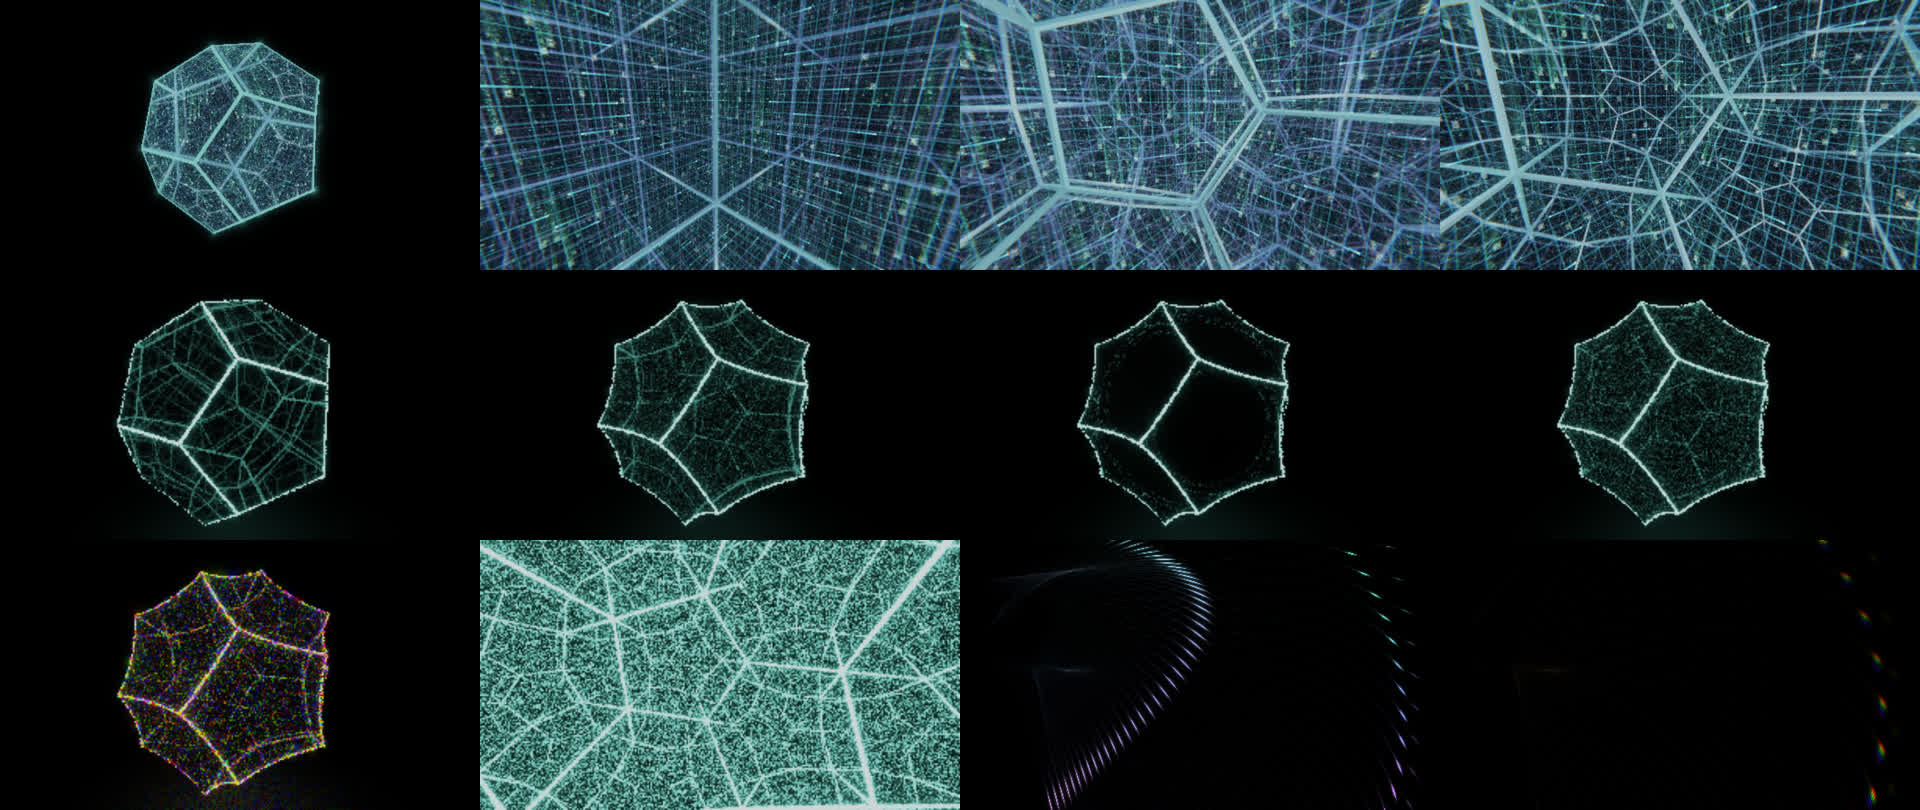
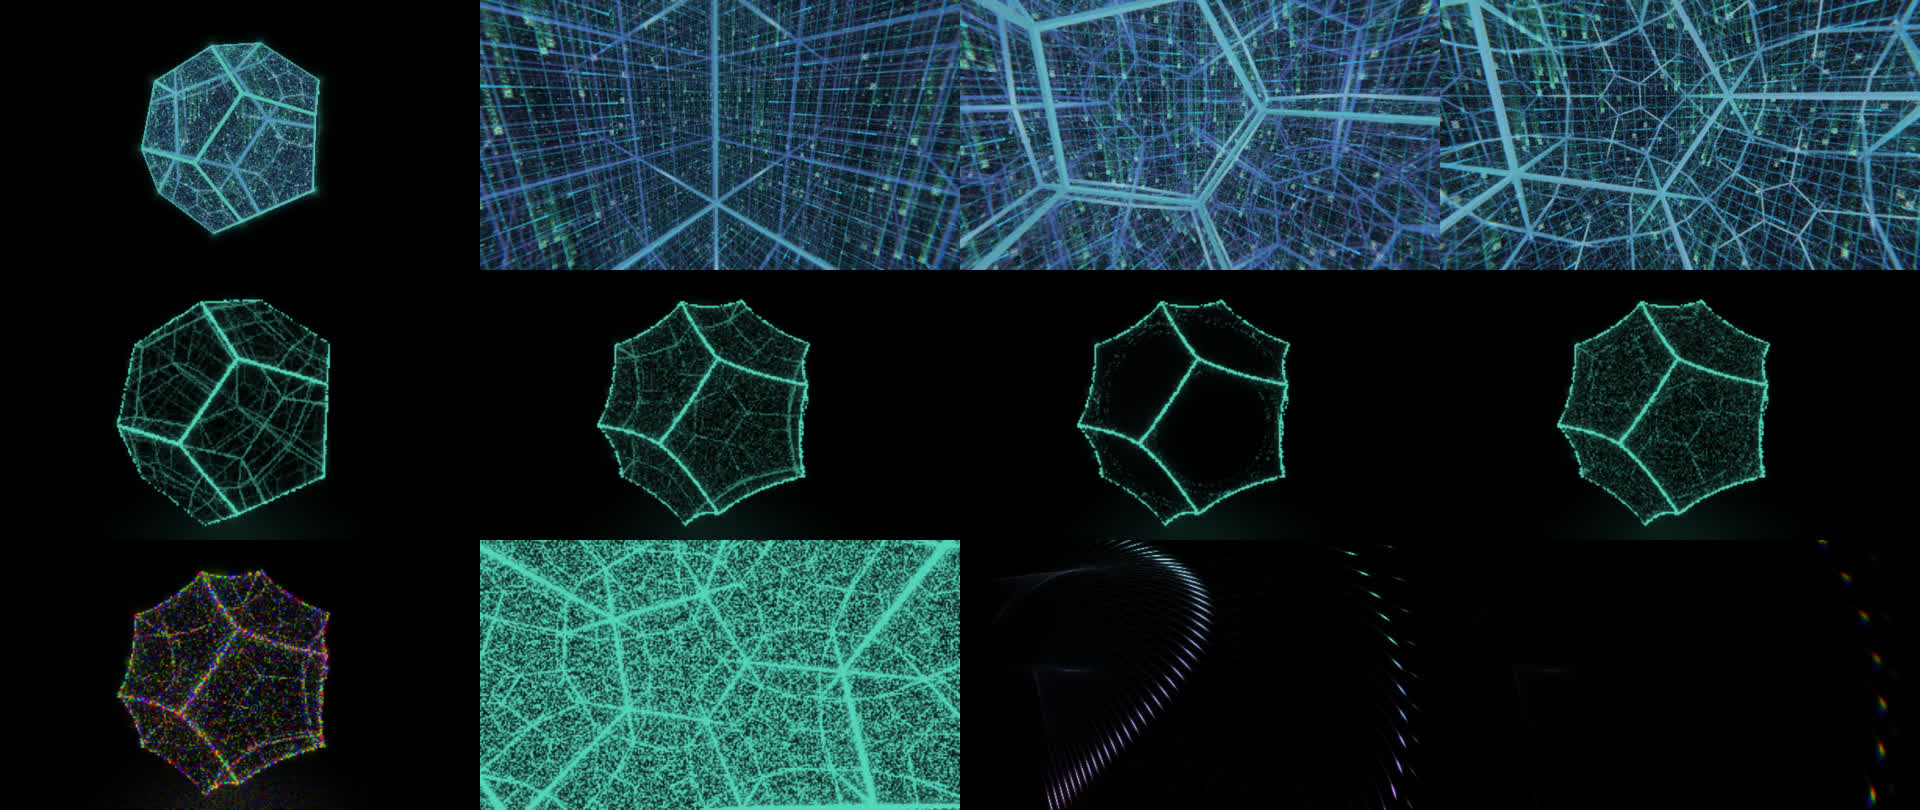
Expand Matrix walkers, preserve HDR hue and validate optical geometry

diff --git a/tests/infinity_tests.cpp b/tests/infinity_tests.cpp
@@ -1,5 +1,7 @@
 #include "Sync.hpp"
 #include "Parallax.hpp"
+#include "OpticalMath.hpp"
+#include "MatrixLife.hpp"
 #include "RenderCorrections.hpp"
 #include "Optimize.hpp"
 #include "Shaders.hpp"
@@ -33,6 +35,24 @@ int main() {
   const float oneStep = infinity_parallax::smooth(0, 1, .1);
   const float twoSteps = infinity_parallax::smooth(infinity_parallax::smooth(0, 1, .05), 1, .05);
   require(std::abs(oneStep - twoSteps) < 1e-6, "pointer smoothing depends on frame rate");
+  for (int step = 0; step < 80; ++step) {
+    const auto cam = infinity_math::camera(float(step) * .31f, float(step - 40) * .03f);
+    for (int a = 0; a < 3; ++a)
+      for (int b = 0; b < 3; ++b) {
+        float dot = 0;
+        for (int k = 0; k < 3; ++k) dot += cam.m[a * 3 + k] * cam.m[b * 3 + k];
+        require(std::abs(dot - (a == b ? 1.f : 0.f)) < 1e-5, "camera basis loses orthogonality");
+      }
+    for (int sheet = 0; sheet < 3; ++sheet) {
+      const auto turn = infinity_math::turn(double(step) * 1e8, sheet);
+      require(std::abs(turn[0] * turn[0] + turn[1] * turn[1] - 1) < 1e-6 &&
+                  std::abs(turn[2] * turn[2] + turn[3] * turn[3] - 1) < 1e-6,
+              "plane bend changes radius");
+    }
+  }
+  for (const char* chamber : {infinity_shader::CHAMBER_OBJECT, infinity_shader::CHAMBER_CUBE,
+                              infinity_shader::CHAMBER_FLAT, infinity_shader::CHAMBER_HYPER})
+    require(infinity_matrix::expand(chamber).find("float ants=") != std::string::npos, "matrix walkers missing");
   using namespace infinity_sync;
   require(sample(31.999, 0, false, 0, 0, 0).scene == 0, "scene changes before boundary");
   require(sample(32, 0, false, 0, 0, 0).scene == 1, "bar-boundary cut missing");
@@ -86,6 +106,55 @@ int main() {
       if (std::abs(d - 1 / std::sqrt(5.f)) < 1e-6)
         require(std::abs(d - kleinT * kleinT) < 1e-6, "hyperbolic adjacent mirrors not orthogonal");
     }
+  for (int f = 0; f < 12; ++f) {
+    const auto n = infinity_math::hyperplane(faces[3 * f], faces[3 * f + 1], faces[3 * f + 2], kleinT);
+    auto dot = [](const auto& a, const auto& b) { return a[0] * b[0] + a[1] * b[1] + a[2] * b[2] - a[3] * b[3]; };
+    require(std::abs(dot(n, n) - 1) < 1e-5, "Lorentz mirror normal is not spacelike unit");
+    std::array<float, 4> p = {0, 0, 0, 1}, reflected = p;
+    const float d = dot(p, n);
+    for (int k = 0; k < 4; ++k) reflected[k] -= 2 * d * n[k];
+    require(std::abs(dot(reflected, reflected) + 1) < 1e-5, "hyperbolic bend leaves unit hyperboloid");
+    const float back = dot(reflected, n);
+    for (int k = 0; k < 4; ++k) reflected[k] -= 2 * back * n[k];
+    for (int k = 0; k < 4; ++k) require(std::abs(reflected[k] - p[k]) < 1e-5, "mirror bend is not involutive");
+  }
+  int degrees[20] = {};
+  bool edgesSeen[20][20] = {};
+  auto vertexIndex = [&](const float* point) {
+    for (int v = 0; v < 20; ++v) {
+      float d = 0;
+      for (int k = 0; k < 3; ++k) d += std::abs(point[k] - vertices[3 * v + k]);
+      if (d < 1e-5) return v;
+    }
+    return -1;
+  };
+  float firstLength = 0;
+  for (int e = 0; e < 30; ++e) {
+    int a = vertexIndex(edgeA + 3 * e), b = vertexIndex(edgeB + 3 * e);
+    require(a >= 0 && b >= 0 && a != b, "edge endpoint is not a vertex");
+    require(!edgesSeen[a][b], "duplicate geometry edge");
+    edgesSeen[a][b] = edgesSeen[b][a] = true;
+    ++degrees[a];
+    ++degrees[b];
+    float d = 0;
+    for (int k = 0; k < 3; ++k) {
+      float x = edgeA[3 * e + k] - edgeB[3 * e + k];
+      d += x * x;
+    }
+    if (e == 0) firstLength = d;
+    require(std::abs(d - firstLength) < 1e-5, "dodecahedron edges have unequal lengths");
+  }
+  for (int degree : degrees) require(degree == 3, "dodecahedron vertex valence must be three");
+  for (int f = 0; f < 12; ++f) {
+    int count = 0;
+    for (int v = 0; v < 20; ++v) {
+      float d = 0;
+      for (int k = 0; k < 3; ++k) d += faces[3 * f + k] * vertices[3 * v + k];
+      require(d <= 1.00001f, "vertex escapes convex face plane");
+      if (std::abs(d - 1) < 1e-5) ++count;
+    }
+    require(count == 5, "face must contain five coplanar vertices");
+  }
   using namespace infinity_opt;
   for (int mask = 0; mask < 128; ++mask) {
     auto kernel = specialize(infinity_shader::TRACE_FS, mask);

diff --git a/demos/infinity/main.cpp b/demos/infinity/main.cpp
@@ -8,6 +8,8 @@
 #include "DimensionalRays.hpp"
 #include "RenderCorrections.hpp"
 #include "Parallax.hpp"
+#include "OpticalMath.hpp"
+#include "MatrixLife.hpp"
 #include "GpuTimer.hpp"
 #include <unordered_map>
 #include <algorithm>
@@ -72,6 +74,7 @@ struct Target {
     glTexParameteri(GL_TEXTURE_2D, GL_TEXTURE_MIN_FILTER,
                     mips ? GL_LINEAR_MIPMAP_LINEAR : (format == GL_RGBA16F ? GL_LINEAR : GL_NEAREST));
     glTexParameteri(GL_TEXTURE_2D, GL_TEXTURE_MAG_FILTER, (mips || format == GL_RGBA16F) ? GL_LINEAR : GL_NEAREST);
+    glTexParameteri(GL_TEXTURE_2D, GL_TEXTURE_MAX_LEVEL, level - 1);
     glTexParameteri(GL_TEXTURE_2D, GL_TEXTURE_WRAP_S, GL_CLAMP_TO_EDGE);
     glTexParameteri(GL_TEXTURE_2D, GL_TEXTURE_WRAP_T, GL_CLAMP_TO_EDGE);
     glGenFramebuffers(1, &fbo);
@@ -96,14 +99,8 @@ struct Target {
     glGenerateMipmap(GL_TEXTURE_2D);
   }
 };
-struct Camera {
-  float m[9];
-  float back[3];
-};
-Camera camera(float yaw, float pitch) {
-  float cy = std::cos(yaw), sy = std::sin(yaw), cp = std::cos(pitch), sp = std::sin(pitch);
-  return {{cy, 0, -sy, -sy * sp, cp, -cy * sp, sy * cp, sp, cy * cp}, {sy * cp, sp, cy * cp}};
-}
+using infinity_math::Camera;
+using infinity_math::camera;
 class Infinity final : public de::Demo {
   std::array<GLuint, 4> chamber_{};
   std::array<GLuint, 128> specialized_{};
@@ -153,7 +150,7 @@ class Infinity final : public de::Demo {
   static void quad() { glDrawArrays(GL_TRIANGLES, 0, 3); }
   GLuint program(const char* vs, const char* fs) {
     const auto vertex = infinity_render::orderedRamps(vs);
-    const auto fragment = infinity_render::orderedRamps(fs);
+    const auto fragment = infinity_render::orderedRamps(infinity_matrix::expand(fs));
     return glutil::linkProgram(vertex.c_str(), fragment.c_str(), error_);
   }
   void view(GLuint p, const Camera& c, float distance, float fov, int w, int h) {
@@ -169,10 +166,9 @@ class Infinity final : public de::Demo {
       glUniform3fv(loc(p, "uU"), 12, cube);
     }
     float hn[48];
-    const float s = 1 / std::sqrt(1 - kleinT * kleinT);
     for (int i = 0; i < 12; ++i) {
-      for (int j = 0; j < 3; ++j) hn[i * 4 + j] = faces[i * 3 + j] * s;
-      hn[i * 4 + 3] = kleinT * s;
+      const auto plane = infinity_math::hyperplane(faces[3 * i], faces[3 * i + 1], faces[3 * i + 2], kleinT);
+      std::copy(plane.begin(), plane.end(), hn + 4 * i);
     }
     glUniform4fv(loc(p, "uHN"), 12, hn);
     glUniform3fv(loc(p, "uEA"), 30, edgeA);
@@ -312,11 +308,8 @@ class Infinity final : public de::Demo {
     glUniformMatrix3fv(loc(rays_, "uCam"), 1, GL_FALSE, rayCamera.m);
     float turns[12];
     for (int sheet = 0; sheet < 3; ++sheet) {
-      const float a = float(cue_.flow) * .11f + float(sheet) * .34f, b = float(cue_.flow) * .07f + .25f;
-      turns[4 * sheet] = std::cos(a);
-      turns[4 * sheet + 1] = std::sin(a);
-      turns[4 * sheet + 2] = std::cos(b);
-      turns[4 * sheet + 3] = std::sin(b);
+      const auto turn = infinity_math::turn(cue_.flow, sheet);
+      std::copy(turn.begin(), turn.end(), turns + 4 * sheet);
     }
     glUniform4fv(loc(rays_, "uTurn"), 3, turns);
     one(rays_, "uNMax", 1 / ((1 - k) + k * .045f / 1.045f));
@@ -337,7 +330,7 @@ public:
     de::Config c;
     c.title = "HOLD INFINITY / music-driven optical geometry";
     c.binaryName = "hold_infinity";
-    c.version = "1.8";
+    c.version = "1.9";
     c.customRendering = true;
     c.defaultTrack = 1;
     c.logoShow = false;

diff --git a/demos/infinity/MatrixLife.hpp b/demos/infinity/MatrixLife.hpp
@@ -1,0 +1,31 @@
+#pragma once
+#include "Optimize.hpp"
+namespace infinity_matrix {
+// Native surface detail: deterministic procedural walkers, evaluated in the
+// same intrinsic coordinates as the original geodesic grid and glyph rain.
+inline std::string expand(std::string source) {
+  if (source.find("vec3 faceFX(") == std::string::npos) return source;
+  infinity_opt::replace(source, "  // Glyph rain falls down the X = const geodesics.", R"GLSL(
+  float seed=h21(vec2(lane+31.0,addr));
+  float ants=0.0;
+  if(fp<0.012){
+  float antPos=fract((q.x-dir*uFlow*0.11)/0.48+seed)-0.5;
+  float antD=abs(antPos)*0.48;
+  float antWidth=max(0.0025,fp);
+  float beads=exp(-pow(antD/antWidth,2.0))
+    +0.65*exp(-pow((antD-0.008)/antWidth,2.0));
+  float antDetail=1.0-smoothstep(0.003,0.012,fp);
+  float gait=0.7+0.3*sin(uFlow*22.847947+seed*6.2831853);
+  ants=lineCov(gd.y,0.0017,fp)*beads*antDetail*gait;
+  }
+  float beatAccent=exp(-fract(uFlow/0.55)*9.0);
+  // Glyph rain falls down the X = const geodesics.
+)GLSL");
+  infinity_opt::replace(
+      source, "return TRON * grid * 0.8 + TRON * cyc * 2.6 + code * rain * 1.3 + vec3(0.85, 1.0, 0.9) * lead * 1.8;",
+      "return "
+      "TRON*grid*0.68+TRON*cyc*(2.3+0.35*beatAccent)+code*rain*1.3+vec3(0.85,1.0,0.9)*lead*1.8+mix(CODE,TRON,seed)*"
+      "ants*(1.4+0.8*beatAccent);");
+  return source;
+}
+} // namespace infinity_matrix

diff --git a/demos/infinity/RenderCorrections.hpp b/demos/infinity/RenderCorrections.hpp
@@ -1,6 +1,7 @@
 #pragma once
 #include <string>
 #include <stdexcept>
+#include <utility>
 
 namespace infinity_render {
 // GLSL smoothstep requires edge0 < edge1. Imported decreasing ramps used
@@ -12,9 +13,23 @@ inline std::string orderedRamps(std::string source) {
     source.replace(at, token.size(), "orderedRamp(");
     at += 12;
   }
+  for (const auto& change :
+       {std::pair<std::string, std::string>{"col = 1.0 - exp(-col * 1.35);", "col = hueShoulder(col,1.35);"},
+        {"c = 1.0 - exp(-c * 1.1);", "c = hueShoulder(c,1.1);"}}) {
+    size_t pos = 0;
+    while ((pos = source.find(change.first, pos)) != std::string::npos) {
+      source.replace(pos, change.first.size(), change.second);
+      pos += change.second.size();
+    }
+  }
   const auto line = source.find('\n');
   if (line == std::string::npos) throw std::runtime_error("Shader version line missing");
   source.insert(line + 1, R"GLSL(
+vec3 hueShoulder(vec3 c,float exposure){
+  c=max(c,vec3(0.0));
+  float peak=max(c.r,max(c.g,c.b));
+  return c*((1.0-exp(-peak*exposure))/max(peak,1e-6));
+}
 float orderedRamp(float a,float b,float x){
   if(a==b)return step(a,x);
   return a<b?smoothstep(a,b,x):1.0-smoothstep(b,a,x);

diff --git a/demos/infinity/OpticalMath.hpp b/demos/infinity/OpticalMath.hpp
@@ -1,0 +1,22 @@
+#pragma once
+#include <array>
+#include <cmath>
+namespace infinity_math {
+struct Camera {
+  float m[9];
+  float back[3];
+};
+inline Camera camera(float yaw, float pitch) {
+  float cy = std::cos(yaw), sy = std::sin(yaw), cp = std::cos(pitch), sp = std::sin(pitch);
+  return {{cy, 0, -sy, -sy * sp, cp, -cy * sp, sy * cp, sp, cy * cp}, {sy * cp, sp, cy * cp}};
+}
+inline std::array<float, 4> hyperplane(float x, float y, float z, float t) {
+  const float scale = 1.f / std::sqrt(1.f - t * t);
+  return {x * scale, y * scale, z * scale, t * scale};
+}
+inline std::array<float, 4> turn(double flow, int sheet) {
+  const double a = std::remainder(flow * .11 + sheet * .34, 6.283185307179586);
+  const double b = std::remainder(flow * .07 + .25, 6.283185307179586);
+  return {float(std::cos(a)), float(std::sin(a)), float(std::cos(b)), float(std::sin(b))};
+}
+} // namespace infinity_math

diff --git a/demos/infinity/README.md b/demos/infinity/README.md
@@ -135,3 +135,12 @@ Chamber and refractive scenes trace from the translated world-space origin. Dime
 Fine filament striations now fade with their screen-space derivative before they become subpixel, reducing distant shimmer. The XW/YZ sine/cosine rotation coefficients are computed once per sheet on the host and uploaded as uniforms instead of being evaluated repeatedly during ribbon projection. Light-only scenes skip allocating/resizing the unused mipmapped optical image target; the actual output and full ray integration remain unchanged.
 
 Parallax helpers recover from non-finite pointer state and bound eye inputs. Benchmarks pin the eye at the center so pointer motion and automatic dolly cannot contaminate A/B images. Both headless suites and native GPU scene checks cover the final changes. An experimental per-point GPU projection pass was tested and removed because isolated alternating timings did not establish a consistent gain; no frame-rate improvement is claimed from that experiment.
+
+
+## Matrix walkers, geometry and HDR (1.9)
+
+Native chamber surface detail now includes deterministic ant-like packets along the existing geodesic lanes. Segmented bodies, per-lane direction, gait and beat accents are evaluated in intrinsic surface coordinates, so reflections and hyperbolic bending carry the detail with the geometry. They are procedural walkers, not an agent or pheromone simulation. Walkers fade with pixel footprint and skip their fine-detail calculations in distant rooms.
+
+Chamber and glass highlights now use a shared hue-preserving exponential shoulder before the existing display grade, retaining coloured highlights instead of separately saturating RGB channels. Float optical targets and restrained bloom remain in use. Texture maximum mip levels are explicitly bounded to their allocated chains.
+
+The camera and Lorentz mirror-plane construction now live in tested shared math helpers. Geometry checks verify every edge endpoint, edge uniqueness/equal length, three-edge vertex valence, convex face bounds and five vertices per face. Mirror checks validate spacelike unit normals, hyperboloid norm preservation and reflection involution. Sampled camera bases remain orthonormal, and plane rotations preserve length even for large clock values; their angles are reduced in double precision before trigonometry. These checks validate the transformations and mesh invariants, alongside native rendering checks; they are not a proof of every stochastic optical path.

diff --git a/CHANGELOG.md b/CHANGELOG.md
@@ -1,3 +1,10 @@
+# Hold Infinity 1.9 Matrix walkers and geometric validation — 2026-10-22
+
+- Add footprint-filtered, beat-accented ant-like walkers on intrinsic geodesic surface lanes.
+- Preserve colour ratios in chamber/glass highlight compression and bound texture mip sampling.
+- Share and test camera, plane rotation and Lorentz mirror construction; reduce long-running rotation angles in double precision.
+- Validate convex mesh topology, face planes, camera orthogonality, rotation length and hyperbolic reflection invariants.
+
 # Hold Infinity 1.8 detail and GPU cleanup — 2026-10-22
 
 - Filter minified filament detail using its screen-space footprint to reduce shimmer.
